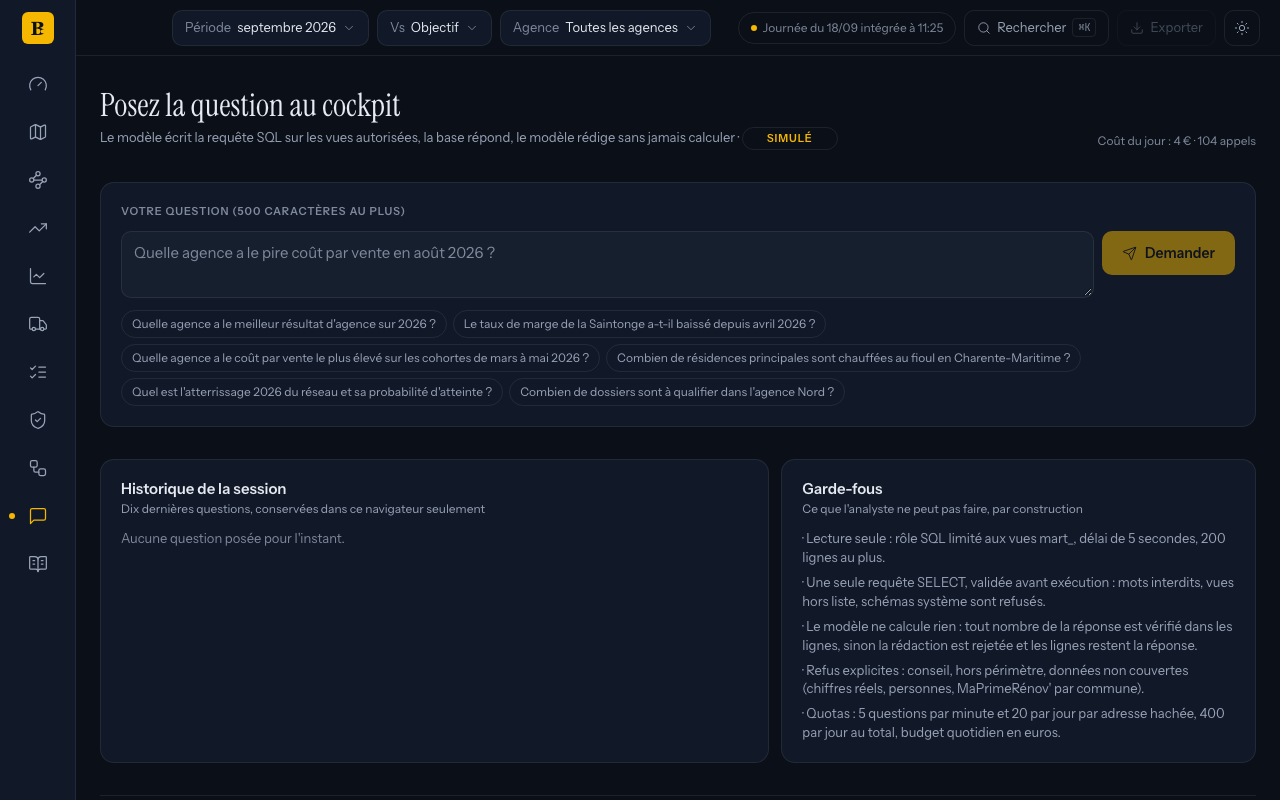
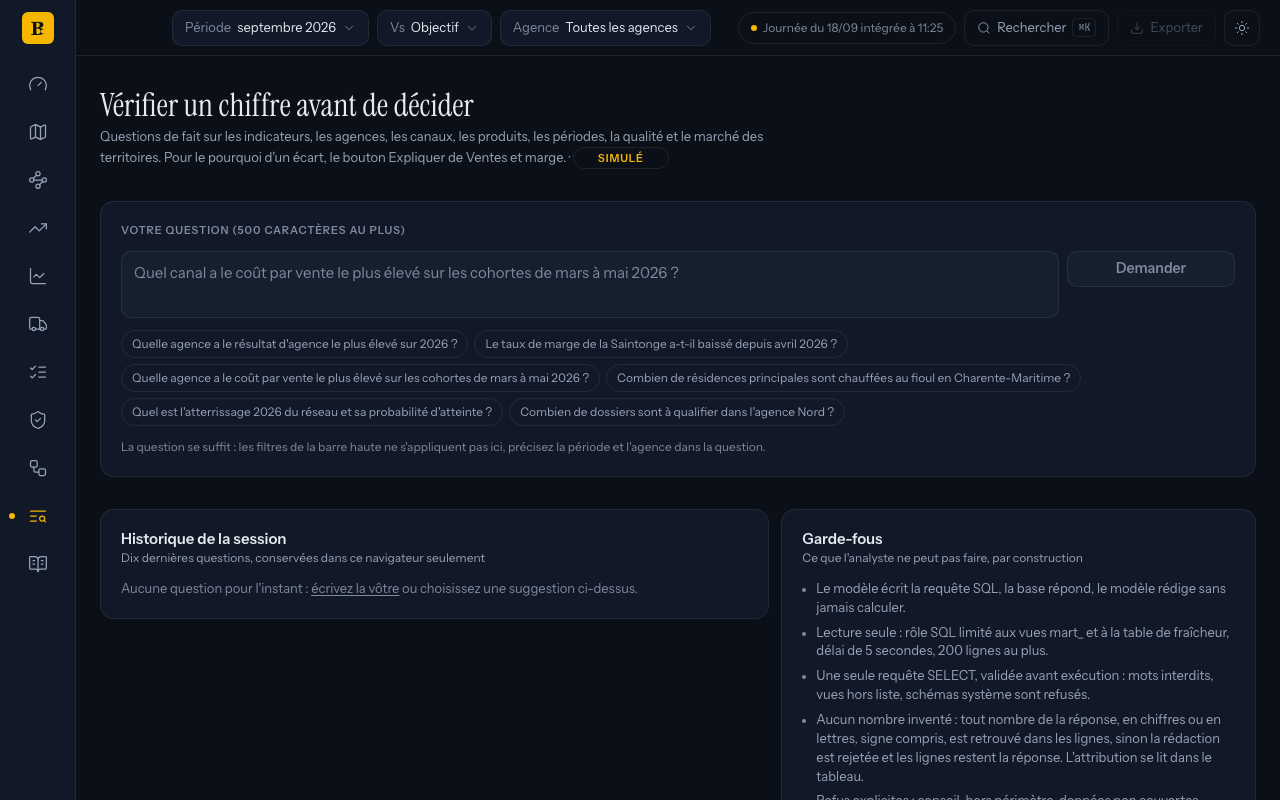
feat: codes traduits en libellés avant la rédaction et contrôle d'attribution phrase par phrase (relecture Analyste, points 1 et 2), migration 0033 versionnée, journal de la relecture à trois lentilles

diff --git a/supabase/functions/analyste/index.ts b/supabase/functions/analyste/index.ts
@@ -7,9 +7,9 @@
  * simulée ou réelle) sont calculées par le programme, la limite de 200 lignes est imposée par une sous-requête,
  * le quota a son propre statut, le contexte de l'écran n'est plus transmis (la question se suffit).
  */
-import { appelerModele, empreinte, ErreurRepli, extraireJson, journaliser, preflight, referentiels, reponseJson, rpcService, texteReferentiels, verifierQuota } from "../_partage/commun.ts";
+import { appelerModele, empreinte, ErreurRepli, extraireJson, journaliser, preflight, referentiels, reponseJson, rpcService, texteReferentiels, traduireLignes, verifierQuota } from "../_partage/commun.ts";
 import { lireEnLectureSeule } from "../_partage/base.ts";
-import { nombresAutorises, nombresNonTraces, signesIncoherents } from "../_partage/nombres.ts";
+import { attributionsIncoherentes, nombresAutorises, nombresNonTraces, signesIncoherents } from "../_partage/nombres.ts";
 import { LIMITE_LIGNES, sourcesCitees, validerSql } from "./garde-fous.ts";
 import { messageRedaction, promptCorrection, promptRedaction, promptSql } from "./prompts.ts";
 
@@ -161,7 +161,9 @@ Deno.serve(async (req: Request) => {
 
     let lecture;
     try {
-      lecture = await lireEnLectureSeule(sqlExecute);
+      const lue = await lireEnLectureSeule(sqlExecute);
+      // Codes traduits en libellés avant tout : le modèle recopie des noms, le navigateur affiche des noms.
+      lecture = { colonnes: lue.colonnes, lignes: traduireLignes(lue.lignes, refs) };
     } catch (erreur) {
       console.error("lecture", erreur instanceof Error ? erreur.message : erreur);
       await journaliser("analyste", emp, question, sql, "sql_erreur", cout, duree(), tokensEntree, tokensSortie);
@@ -192,13 +194,20 @@ Deno.serve(async (req: Request) => {
     // Les référentiels et la journée publiée sont versés en chiffres bruts : un numéro de département ou une année
     // cités dans la réponse sont des faits, pas des inventions ; un signe contraire aux lignes est un défaut.
     // Faits du référentiel transmis en prose au modèle : départements du périmètre, historique repris depuis janvier 2025.
-    const faitsReferentiels = { ...refs, departements_perimetre: ["16", "17", "79", "85", "24", "33", "47", "32", "40", "64", "59"], historique_depuis: "2025-01" };
+    // Les 96 codes de département n'en font pas partie (ils autoriseraient tous les nombres de 1 à 95) : seuls ceux du périmètre.
+    const { departements: _departements, ...refsSansDepartements } = refs;
+    const faitsReferentiels = { ...refsSansDepartements, departements_perimetre: ["16", "17", "79", "85", "24", "33", "47", "32", "40", "64", "59"], historique_depuis: "2025-01" };
     const autorises = nombresAutorises(lecture.lignes, question, lecture.lignes.length, faitsReferentiels);
+    const horsLignes = nombresAutorises([], question, lecture.lignes.length, faitsReferentiels);
     const nonTraces = [...nombresNonTraces(reponse, autorises), ...signesIncoherents(reponse, lecture.lignes)];
+    // Attribution : une phrase qui nomme une ligne ne cite que ses nombres (« Le Born (123 994 €) » avec la valeur du Marensin est rejeté).
+    const malAttribues = attributionsIncoherentes(reponse, lecture.lignes, horsLignes);
     let statut = "ok";
-    if (!reponse || nonTraces.length > 0) {
+    if (!reponse || nonTraces.length > 0 || malAttribues.length > 0) {
       statut = "ok_redaction_rejetee";
-      reponse = `Je ne peux pas répondre de façon fiable à cette question : la rédaction contenait ${nonTraces.length ? `un nombre absent des lignes ou au signe contraire (${nonTraces.slice(0, 3).join(", ")})` : "aucune phrase exploitable"}. Les lignes ci-dessous sont exactes et restent la réponse.`;
+      const motif = nonTraces.length ? `un nombre absent des lignes ou au signe contraire (${nonTraces.slice(0, 3).join(", ")})` : malAttribues.length ? `un nombre attribué à une autre ligne que la sienne (${malAttribues.slice(0, 3).join(", ")})` : "aucune phrase exploitable";
+      console.warn("analyste : rédaction rejetée", motif);
+      reponse = `Je ne peux pas répondre de façon fiable à cette question : la rédaction contenait ${motif}. Les lignes ci-dessous sont exactes et restent la réponse.`;
     }
     await journaliser("analyste", emp, question, sql, statut, cout, duree(), tokensEntree, tokensSortie);
     return reponseJson({ statut: "ok", sql, colonnes: lecture.colonnes, lignes: lecture.lignes, reponse, sources, nature, cout_eur: cout, duree_ms: duree(), modele: modeleUtilise, redaction_rejetee: statut !== "ok", budget_jour: quota.budget_jour, cout_jour: quota.cout_jour });

diff --git a/supabase/functions/_partage/commun.ts b/supabase/functions/_partage/commun.ts
@@ -216,10 +216,11 @@ export async function journaliser(fonction: "analyste" | "expliquer-ecart", emp:
   }
 }
 
-interface Referentiels {
+export interface Referentiels {
   agences: { code: string; nom_bassin: string; departement: string; ouverture: string }[];
   canaux: { code: string; libelle: string }[];
   produits: { code: string; libelle: string; famille: string }[];
+  departements: { code: string; nom: string }[];
   journee: string | null;
 }
 
@@ -228,15 +229,46 @@ let referentielsCache: { valeur: Referentiels; expire: number } | null = null;
 /** Référentiels (agences, canaux, produits) et journée publiée, transmis au modèle pour traduire les codes ; cache 10 minutes. */
 export async function referentiels(): Promise<Referentiels> {
   if (referentielsCache && referentielsCache.expire > Date.now()) return referentielsCache.valeur;
-  const [agences, canaux, produits, fraicheur] = await Promise.all([
+  const [agences, canaux, produits, departements, fraicheur] = await Promise.all([
     lireVue<Referentiels["agences"][number]>("dim_agence", "select=code,nom_bassin,departement,ouverture&order=code"),
     lireVue<Referentiels["canaux"][number]>("dim_canal", "select=code,libelle&order=code"),
     lireVue<Referentiels["produits"][number]>("dim_produit", "select=code,libelle,famille&order=code"),
+    lireVue<Referentiels["departements"][number]>("dim_departement", "select=code,nom&order=code"),
     lireVue<{ date_reference: string | null }>("mart_fraicheur", "select=date_reference&source=eq.journee_simulee"),
   ]);
-  const valeur = { agences, canaux, produits, journee: fraicheur[0]?.date_reference ?? null };
+  const valeur = { agences, canaux, produits, departements, journee: fraicheur[0]?.date_reference ?? null };
   referentielsCache = { valeur, expire: Date.now() + 10 * 60_000 };
   return valeur;
+}
+
+/**
+ * Codes traduits en libellés dans les lignes, colonne par colonne (agence, canal, produit, departement), avant la
+ * rédaction et l'affichage : le modèle recopie des noms, il ne traduit plus, et le contrôle d'attribution compare des
+ * libellés. Une liste de codes (« SAI, ANG ») est traduite terme à terme.
+ */
+export function traduireLignes(lignes: readonly Record<string, unknown>[], r: Referentiels): Record<string, unknown>[] {
+  const agences = new Map(r.agences.map((a) => [a.code, a.nom_bassin]));
+  const canaux = new Map(r.canaux.map((c) => [c.code, c.libelle]));
+  const produits = new Map(r.produits.map((p) => [p.code, p.libelle]));
+  const departements = new Map<string, string>([...r.departements.map((d): [string, string] => [d.code, d.nom]), ["SUR_PLACE", "Sur place"], ["A_DISTANCE", "À distance"]]);
+  const dictionnaire = (colonne: string): Map<string, string> | null => {
+    const c = colonne.toLowerCase();
+    if (c.includes("agence")) return agences;
+    if (c.includes("canal") || c.includes("canaux")) return canaux;
+    if (c.includes("produit")) return produits;
+    if (c.includes("departement")) return departements;
+    return null;
+  };
+  const traduire = (v: string, d: Map<string, string>): string => {
+    if (v === "RESEAU") return "Réseau";
+    if (v === "TOUS") return "Tous";
+    if (v.includes(", ")) return v.split(", ").map((x) => d.get(x) ?? x).join(", ");
+    return d.get(v) ?? v;
+  };
+  return lignes.map((l) => Object.fromEntries(Object.entries(l).map(([k, v]) => {
+    const d = dictionnaire(k);
+    return [k, d && typeof v === "string" ? traduire(v, d) : v];
+  })));
 }
 
 export function texteReferentiels(r: Referentiels): string {

diff --git a/src/ecrans/analyste/index.tsx b/src/ecrans/analyste/index.tsx
@@ -191,7 +191,7 @@ export function EcranAnalyste() {
           {r.statut === "ok" && (
             <>
               <Carte titre="La réponse" sousTitre={`« ${courant.question} »`}
-                actions={<><Badge variante={r.nature === "reel" ? "reel" : "simule"}>{libelleNature(r.nature)}</Badge><Pastille statut={r.redaction_rejetee ? "attention" : "succes"} texte={r.redaction_rejetee ? "rédaction rejetée, lignes exactes" : "aucun nombre hors des lignes"} /></>}>
+                actions={<><Badge variante={r.nature === "reel" ? "reel" : "simule"}>{libelleNature(r.nature)}</Badge><Pastille statut={r.redaction_rejetee ? "attention" : "succes"} texte={r.redaction_rejetee ? "rédaction rejetée, lignes exactes" : "chaque nombre retrouvé dans sa ligne"} /></>}>
                 <p className="max-w-[72ch] text-[15px] leading-relaxed text-texte">{r.reponse}</p>
                 {(r.sources ?? []).length > 0 && <p className="mt-[var(--esp-2)] max-w-[72ch] text-[12px] text-texte-3">Sources : {(r.sources ?? []).join(" · ")}</p>}
                 <p className="mt-[var(--esp-2)] text-[12px] text-texte-3">
@@ -280,7 +280,7 @@ export function EcranAnalyste() {
               "Le modèle écrit la requête SQL, la base répond, le modèle rédige sans jamais calculer.",
               "Lecture seule : rôle SQL limité aux vues mart_ et à la table de fraîcheur, délai de 5 secondes, 200 lignes au plus.",
               "Une seule requête SELECT, validée avant exécution : mots interdits, vues hors liste, schémas système sont refusés.",
-              "Aucun nombre inventé : tout nombre de la réponse, en chiffres ou en lettres, signe compris, est retrouvé dans les lignes, sinon la rédaction est rejetée et les lignes restent la réponse. L'attribution se lit dans le tableau.",
+              "Aucun nombre inventé ni déplacé : tout nombre de la réponse, en chiffres ou en lettres, signe compris, est retrouvé dans les lignes, et dans la ligne que la phrase nomme ; sinon la rédaction est rejetée et les lignes restent la réponse.",
               "Refus explicites : conseil, hors périmètre, données non couvertes (chiffres réels, personnes, MaPrimeRénov' par commune), écriture.",
               "Quotas : 5 questions par minute et 20 par jour par adresse et navigateur hachés, 400 par jour au total, budget quotidien en euros.",
             ].map((texte) => (

diff --git a/tests/nombres.test.ts b/tests/nombres.test.ts
@@ -1,5 +1,5 @@
 import { describe, expect, it } from "vitest";
-import { extraireNombres, nombresAutorises, nombresNonTraces, normaliserNombre, representations, signesIncoherents } from "../supabase/functions/_partage/nombres.ts";
+import { attributionsIncoherentes, extraireNombres, nombresAutorises, nombresNonTraces, normaliserNombre, representations, signesIncoherents } from "../supabase/functions/_partage/nombres.ts";
 
 describe("normaliserNombre et extraireNombres", () => {
   it("ramène les écritures françaises et machine à une même clé", () => {
@@ -88,5 +88,27 @@ describe("nombres en lettres, signes et référentiels", () => {
     expect(autorises.has("18")).toBe(true);
     expect(autorises.has("60")).toBe(false);
     expect(autorises.has("0.06")).toBe(false);
+  });
+});
+
+describe("attributionsIncoherentes", () => {
+  const lignes = [
+    { agence: "Saintonge", resultat_total: 299537 },
+    { agence: "Marensin", resultat_total: 123994 },
+    { agence: "Born", resultat_total: -18736 },
+    { agence: "Bassin d'Arcachon", resultat_total: -77647 },
+  ];
+  const horsLignes = nombresAutorises([], "résultat 2026", lignes.length, { journee: "2026-09-18" });
+  it("rejette un nombre cité avec une ligne qui ne le porte pas", () => {
+    expect(attributionsIncoherentes("Le Born (123 994 €) suit avec un résultat positif.", lignes, horsLignes)).toEqual(["123994"]);
+  });
+  it("accepte un nombre cité avec sa ligne, ses reformulations, et les nombres hors lignes", () => {
+    expect(attributionsIncoherentes("À date (18 septembre 2026), la Saintonge affiche 299 537 €, soit 299,5 k€ ; le Marensin suit à 123 994 €.", lignes, horsLignes)).toEqual([]);
+    expect(attributionsIncoherentes("Nord est derrière Saintonge avec 220 223 €.", [{ agence: "Nord", resultat_total: 220223 }, ...lignes], horsLignes)).toEqual([]);
+    expect(attributionsIncoherentes("Le Bassin d'Arcachon est le plus bas avec -77 647 €, sur 4 agences.", lignes, horsLignes)).toEqual([]);
+  });
+  it("ne juge pas une phrase qui ne nomme aucune ligne, et tolère un trait d'union dans le libellé", () => {
+    expect(attributionsIncoherentes("Le résultat le plus élevé est de 299 537 €.", lignes, horsLignes)).toEqual([]);
+    expect(attributionsIncoherentes("Le Bassin-d'Arcachon affiche -77 647 €.", lignes, horsLignes)).toEqual([]);
   });
 });

diff --git a/supabase/functions/analyste/prompts.ts b/supabase/functions/analyste/prompts.ts
@@ -51,7 +51,8 @@ export function promptRedaction(referentiels: string, journee: string | null): s
     `- Journée publiée (dernier jour de données) : ${journee ?? "inconnue"}. Aucune période citée ne la dépasse : la borne d'un filtre SQL (« mois < 2027-01-01 ») n'est pas la période des données. Pour une année ou un mois en cours, écris « à date » ou « jusqu'au ${journee ?? "jour publié"} », dis que le mois en cours est partiel, et n'écris jamais qu'une agence « termine » une année qui n'est pas finie. Les dates s'écrivent en français (18 septembre 2026), jamais en AAAA-MM-JJ.`,
     "- Si les lignes portent cohorte_mature à faux, ou une cohorte de moins de 90 jours, dis que la conversion n'est pas terminée et que les taux sont provisoires.",
     "- Trois à six phrases en français, chiffres formatés à la française (virgule décimale, espace entre les milliers, espace avant %), sans superlatif ni adverbe d'appréciation (« nettement », « largement »), sans tiret long, sans recommandation stratégique.",
-    "- Rappelle la période et le périmètre. Traduis les codes en libellés (agences par bassin, canaux, produits) avec les référentiels ci-dessous, sans répéter le code entre parenthèses ; jamais de nom de personne ; ne mentionne pas les lignes de total exclues par la requête (RESEAU, TOUS).",
+    "- Rappelle la période et le périmètre. Les codes des lignes sont déjà traduits en libellés (bassins, canaux, produits, départements) : recopie ces libellés tels quels, sans code entre parenthèses ; jamais de nom de personne ; ne mentionne pas les lignes de total exclues par la requête (Réseau, Tous).",
+    "- Un nombre ne se cite qu'avec la ligne qui le porte : n'attribue jamais à une agence, un canal, un produit ou un département une valeur lue sur une autre ligne. Relis chaque phrase en la comparant à sa ligne avant de répondre.",
     "- Ne qualifie pas l'ancienneté, l'ouverture, la taille ou la situation d'une agence si aucune ligne ne la donne.",
     "- Si les lignes sont vides, dis simplement qu'aucune donnée ne correspond.",
     "Réponds uniquement par un objet JSON : {\"reponse\": \"...\"}. Les sources sont ajoutées par le programme, ne les écris pas.",

diff --git a/supabase/functions/_partage/nombres.ts b/supabase/functions/_partage/nombres.ts
@@ -147,3 +147,40 @@ export function signesIncoherents(texte: string, donnees: unknown): string[] {
   }
   return [...new Set(incoherents)];
 }
+
+function normaliserTexte(t: string): string {
+  return t.normalize("NFD").replace(/[\u0300-\u036f]/g, "").replace(/[-\u2011]/g, " ").toLowerCase();
+}
+
+function echapper(t: string): string {
+  return t.replace(/[.*+?^${}()|[\]\\]/g, "\\$&");
+}
+
+/** Libellés d'une ligne : valeurs texte d'au moins deux caractères qui ne sont ni des nombres ni des dates (bassin, canal, produit, département). */
+function libellesDeLigne(ligne: Record<string, unknown>): string[] {
+  return Object.values(ligne).filter((v): v is string => typeof v === "string" && v.trim().length >= 2 && !/^-?\d+([.,]\d+)?$/.test(v.trim()) && !/^\d{4}-\d{2}(-\d{2})?$/.test(v.trim()));
+}
+
+/**
+ * Attribution phrase par phrase : quand une phrase nomme une ou plusieurs lignes (par leur libellé), tout nombre de la
+ * phrase doit appartenir à l'une de ces lignes, ou aux nombres autorisés hors lignes (question, dénombrements,
+ * référentiels). « Le Born (123 994 €) » est rejeté si 123 994 est la valeur de la ligne Marensin. Une phrase qui ne
+ * nomme aucune ligne n'est pas jugée ici (le contrôle global des nombres s'applique déjà).
+ */
+export function attributionsIncoherentes(texte: string, lignes: readonly Record<string, unknown>[], autorisesHorsLignes: Set<string>): string[] {
+  const indexees = lignes.map((l) => {
+    const nombres = new Set<string>();
+    ajouterValeur(l, nombres);
+    return { libelles: libellesDeLigne(l).map(normaliserTexte), nombres };
+  });
+  const incoherents: string[] = [];
+  for (const phrase of texte.split(/(?<=[.!?;])\s+/)) {
+    const p = normaliserTexte(phrase);
+    const citees = indexees.filter((l) => l.libelles.some((lib) => new RegExp(`(?<![\\p{L}])${echapper(lib)}(?![\\p{L}])`, "u").test(p)));
+    if (citees.length === 0) continue;
+    const permis = new Set<string>(autorisesHorsLignes);
+    for (const l of citees) for (const n of l.nombres) permis.add(n);
+    for (const n of extraireNombres(phrase)) if (!permis.has(n)) incoherents.push(n);
+  }
+  return [...new Set(incoherents)];
+}

diff --git a/supabase/functions/expliquer-ecart/index.ts b/supabase/functions/expliquer-ecart/index.ts
@@ -98,7 +98,8 @@ Deno.serve(async (req: Request) => {
     };
     const texteComplet = [explication.constat, ...explication.causes.map((c) => `${c.texte} ${c.fait}`), explication.action].join("\n");
     // Les référentiels (départements, années d'ouverture) et la journée publiée font partie des faits transmis au modèle.
-    const nonTraces = [...nombresNonTraces(texteComplet, nombresAutorises(faits, `${mois}`, null, refs)), ...signesIncoherents(texteComplet, faits)];
+    const { departements: _departements, ...refsSansDepartements } = refs;
+    const nonTraces = [...nombresNonTraces(texteComplet, nombresAutorises(faits, `${mois}`, null, refsSansDepartements)), ...signesIncoherents(texteComplet, faits)];
     await journaliser("expliquer-ecart", emp, null, null, nonTraces.length || !explication.constat ? "repli_nombres" : "ok", r.coutEur, duree(), r.tokensEntree, r.tokensSortie);
     if (!explication.constat || nonTraces.length > 0) {
       console.warn("explication rejetée", nonTraces.join(", "));

diff --git a/docs/JOURNAL.md b/docs/JOURNAL.md
@@ -321,4 +321,17 @@ Lot 5 (18 septembre, en cours) :
 - Advisors Supabase (sécurité) après la migration 0031 : un seul point nouveau, `buta.round` sans search_path figé ; migration 0032 (`set search_path = pg_catalog`). Le reste est connu et voulu (vues `mart_` en security definer, RLS sans politique sur les tables internes, vues matérialisées exposées en lecture).
 - Lighthouse (Brave, préréglage desktop) sur `/analyste` en production après le déploiement de 2 h 52 : performance 100, accessibilité 100, bonnes pratiques 100, SEO 100 (LCP 0,6 s, décalage 0). Suite Playwright complète en production : 42/42.
 - n8n (19 septembre, 3 h 10) : nœud Code « Rédiger par règles » de WF3 remplacé par `n8n/wf3-code-regles.js` regénéré (espace insécable U+00A0, comme le site) ; credentials existants rattachés aux nœuds (« Gmail account » sur WF0, WF2, WF3, WF5 ; « Mistral Cloud account » sur WF3). Il ne manque que « Supabase Buta (service role) » (type Supabase API, hôte du projet renovscope, clé service_role), à créer par Frédéric ; le credential « Supabase Courant (service role) » pointe sur un autre projet (schéma `ingest`, absent de renovscope). Marche à suivre dans AUTOMATISATIONS.md §4.
-- Budget du jour : les trois passes, les sondes et les captures ont consommé environ 4 € sur les 5 € du 19 septembre (compteur en heure UTC) ; ne plus rejouer l'évaluation avant mardi, les tests e2e coûtent 0,012 € par passage.
+- Budget du jour : les trois passes, les sondes et les captures ont consommé environ 4 € sur les 5 € du 19 septembre (compteur en heure de Paris, la base compte ainsi ; l'écran le lisait en UTC, corrigé) ; les tests e2e coûtent 0,012 € par passage.
+- Relecture par workflow de réfutation à trois lentilles de l'écran Analyste (19 septembre, 9 h 30 à 12 h, captures de production de 2 h 47, agents critiques indépendants, sans juge de synthèse) : lentille faits 23 réfutations (1 bloquante), lentille forme et typographie 37 (1 bloquante), lentille recruteur simulé 20 (1 bloquante) plus trois questions d'entretien. Corrections retenues et déployées (fonctions v12 et v10, migration 0033, commit de midi) :
+  1. Période fausse (bloquant, deux lentilles) : la réponse vitrine disait « janvier à décembre 2026 » un 18 septembre, et « quatre agences terminent en résultat négatif ». La rédaction ne recevait pas la journée publiée et la ligne des sources était écrite par le modèle. Désormais la journée publiée est transmise à la rédaction avec la règle « à date, jamais la borne d'un filtre », et les sources (vues lues, période des lignes bornée à la journée publiée, nature simulée ou marché réel) sont calculées par le programme depuis la requête validée et les lignes ; le badge simulé ou marché réel de la carte vient des vues citées, plus de la prose.
+  2. Attribution (recruteur, faits, puis constatée sur la première capture d'après corrections : « Le Born (123 994 €) » avec la valeur du Marensin) : les codes d'agence, de canal, de produit et de département sont traduits en libellés par le programme avant la rédaction (le modèle recopie des noms, il ne traduit plus, et le tableau affiche des noms) et un contrôle d'attribution phrase par phrase rejette tout nombre cité avec une ligne qui ne le porte pas (`attributionsIncoherentes`, testé). Nombres en lettres (« quatre agences ») comptés comme des nombres, signe vérifié (« +17 779 € » pour une valeur négative est rejeté), formes en milliers et millions réservées aux valeurs qui les atteignent, arrondis à la dizaine, à la centaine et au millier acceptés, référentiels versés en chiffres bruts (les 96 codes de département exclus, ils auraient autorisé tous les nombres de 1 à 95), dénombrements de 1 au nombre de lignes acceptés.
+  3. « Agence Nord ouverte en 2026 » (recruteur, faits) : le référentiel transmis au modèle dit « agence simulée intégrée au réseau en juin 2026, historique repris depuis janvier 2025 : mêmes mois de données que les autres », et la rédaction ne qualifie plus l'ancienneté d'une agence sans ligne qui la donne.
+  4. Limite de 200 lignes non garantie (faits) : toute requête validée est enveloppée dans `select * from (…) limit 200`. Colonnes converties en nombre seulement si leur type PostgreSQL est numérique (un code Insee ou un département restent du texte).
+  5. Quota et budget affichés comme un refus (recruteur, faits) : statut `quota` distinct, carte « Analyste en pause ». Refus en une phrase avec un renvoi utile (Territoires pour un conseil d'implantation, Méthode pour une donnée non couverte) et son coût ; la phrase du modèle n'est plus concaténée.
+  6. Contexte de la barre haute transmis sans le dire (forme, recruteur) : plus transmis ; l'écran dit « la question se suffit ».
+  7. Critère du 100 % (recruteur, faits) : les termes attendus sont cherchés dans la prose seule, valeurs attendues ajoutées pour les 11 questions stables (1 918 997 €, Arcachon, 26,9, 299 537, 8,6, Salons, 399, 8,32, C03, 27 968, 29 187 878), libellés seuls pour les 7 mouvantes ; option `--questions` du script ; critère écrit dans IA.md §5 et dans les guides.
+  8. Journal des questions (recruteur, faits) : purge à 30 jours par pg_cron (migration 0033, fonction `purger_journal_analyste`), guide et pied d'écran alignés (« la question, sa requête et une empreinte hachée de l'adresse et du navigateur, jamais l'adresse »).
+  9. Écran (forme) : titre « Vérifier un chiffre avant de décider », sous-titre sur ce qu'on peut demander et où va le pourquoi d'un écart ; bouton primaire avec un token de texte contrasté sur les deux thèmes (3,6:1 vers 4,7:1 en clair) et un état désactivé dessiné, partagé avec Territoires ; squelettes des trois cartes pendant la requête, région `aria-live`, focus ramené sur la réponse ; requête SQL dans une carte repliée, mise en forme une clause par ligne (copie inchangée), ligatures de JetBrains Mono désactivées (« <> » et « >= » se rendaient en symboles) ; tableau sans largeur minimale sous quatre colonnes (la colonne numérique sortait de l'écran à 375 px), enveloppe comme les autres écrans, en-têtes en alias SQL mono, codes traduits ; historique horodaté avec chevron, état vide avec le geste, cartes à hauteur naturelle ; garde-fous en liste avec marqueur et budget du jour en dernière ligne (le compteur en tête d'écran disparaît) ; durée en secondes ; paragraphe à 72 caractères ; espaces insécables dans la prose du modèle (milliers, %, €) ; badge SIMULÉ non orphelin sur téléphone ; icône de route « recherche dans le texte » à la place de la bulle ; commande « Poser une question à l'analyste » dans la palette ; curseur main sur tout bouton (Tailwind 4 ne le pose plus) ; suggestions et placeholder sans superlatif.
+  10. Documentation : ECRANS.md §10 (ordre réel des cartes), IA.md (règle fondatrice, §2 305 colonnes, §4, §5 critère et chronologie des quatre passes de la nuit : 15/24 à 0 h 09, 21/24 à 0 h 23, 23/24 à 2 h 26, 24/24 à 2 h 40), GUIDE.md §3.10 et trois réponses de la section 8 (ce qui part chez le fournisseur, coût à l'échelle et repli, attribution), GUIDE_ILLUSTRE.md §5.10 et question fréquente, 27 968 et 289 718 € corrigés, captures refaites.
+- Réfutations non retenues avant mardi (notées pour après l'entretien) : fiche « i » depuis la ligne des sources ; budget affiché avant la première réponse ; nombres de la question toujours autorisés dans la réponse (une règle de prompt demande de citer la valeur des lignes, le garde-fou technique reste à écrire) ; numéro de semaine ISO accepté par le contrôle ; grain période dans mart_delais (le modèle prend une médiane de médianes mensuelles et le dit) ; question « pourquoi » dans le jeu d'évaluation ; négatifs colorés et unités dans le tableau des lignes ; quatre hauteurs de boutons ; espaces insécables de la ponctuation française sur tout le site ; apostrophes typographiques ; animation signature de l'écran ; question affichée dans le champ et en sous-titre après la réponse ; suggestion 3 reformulée vers le canal (H2 se lit au grain canal, la doc le dit).
+- Passes de contrôle après la relecture (`npm run evaluer:analyste -- --questions …`, critère renforcé) : 19/24 à 11 h 40 avec la journée publiée transmise mais avant la traduction des codes (cinq rédactions rejetées : « 2025 » et « 24 » cités depuis la prose des référentiels, un dénombrement « deux contrôles », une réponse hors JSON), 5/5 à 11 h 50 sur ces cinq questions après correction, puis 10/10 à 12 h 10 sur les dix questions à libellés multiples (2, 3, 5, 7, 13, 14, 16, 17, 20, 24) avec les codes traduits et le contrôle d'attribution : les réponses écrivent « à date (jusqu'au 18 septembre 2026, période partielle) », nomment les bassins, et Marensin porte bien 123 994 €. Coût de la relecture et de ses passes : environ 0,60 € (budget du 19 septembre à 4,4 € sur 5 à midi). Le jeu complet est à rejouer avant le gel de lundi, budget remis à zéro à minuit.

diff --git a/docs/GUIDE_ILLUSTRE.md b/docs/GUIDE_ILLUSTRE.md
@@ -519,7 +519,7 @@ La question : qu'est-ce qui se fait sans personne, quand, et est-ce que ça a ma
 
 ![Analyste, page entière](captures/guide/analyste.png)
 
-La question : que répond le cockpit quand on lui pose une question de fait en français, et peut-on lui faire confiance. L'écran est entré dans la navigation le 19 septembre 2026, après un jeu d'évaluation de vingt-quatre questions réussi à 100 % (le seuil de mise en ligne était de 90 %). Ce que le jeu vérifie : le statut attendu (réponse ou refus), l'absence de tout nombre hors des lignes, et la présence dans la phrase du modèle de la valeur attendue pour les onze questions dont la valeur ne bouge pas d'un jour à l'autre. Ce qu'il ne vérifie pas : qu'un chiffre exact est attribué à la bonne agence ; c'est pour cela que les lignes et la requête sont toujours affichées.
+La question : que répond le cockpit quand on lui pose une question de fait en français, et peut-on lui faire confiance. L'écran est entré dans la navigation le 19 septembre 2026, après un jeu d'évaluation de vingt-quatre questions réussi à 100 % (le seuil de mise en ligne était de 90 %). Ce que le jeu vérifie : le statut attendu (réponse ou refus), l'absence de tout nombre hors des lignes, et la présence dans la phrase du modèle de la valeur attendue pour les onze questions dont la valeur ne bouge pas d'un jour à l'autre. Un chiffre exact prêté à la mauvaise agence dans une phrase qui la nomme est rejeté aussi ; les lignes et la requête restent affichées parce qu'elles sont la matière de la réponse.
 
 ![L'écran avant toute question](captures/guide/analyste-00-avant-question.png)
 
@@ -531,12 +531,12 @@ La question : que répond le cockpit quand on lui pose une question de fait en f
 
 **La réponse.**
 - Ce que ça montre : trois à six phrases en français, la période et le périmètre rappelés, les codes traduits en bassins, puis les sources, calculées par le programme et non par le modèle (vues lues par la requête, période des lignes bornée à la journée publiée, nature des données), le modèle, la durée en secondes et le coût de la question. Le badge « simulé » ou « marché réel » vient lui aussi des vues citées par la requête validée.
-- Comment le lire : la pastille verte « aucun nombre hors des lignes » dit que tous les nombres de la prose, en chiffres ou en lettres et avec leur signe, ont été retrouvés dans les lignes renvoyées par la base. Si un nombre ne s'y trouve pas, la rédaction est rejetée, la pastille passe en orange et une phrase explique que les lignes ci-dessous restent la réponse. Ce que la pastille ne dit pas : que chaque chiffre est attribué à la bonne ligne ; en cas de doute, le tableau fait foi.
+- Comment le lire : la pastille verte « chaque nombre retrouvé dans sa ligne » dit que tous les nombres de la prose, en chiffres ou en lettres et avec leur signe, ont été retrouvés dans les lignes renvoyées par la base, et, quand la phrase nomme une agence, un canal ou un produit, dans la ligne de celui-ci. Si un nombre ne s'y trouve pas, la rédaction est rejetée, la pastille passe en orange et une phrase explique que les lignes ci-dessous restent la réponse. En cas de doute, le tableau fait foi.
 
 ![Les chiffres](captures/guide/analyste-02-les-chiffres.png)
 
 **Les chiffres.**
-- Ce que ça montre : les lignes exactes renvoyées par la base, avec les noms de colonnes tels que la requête les a écrits (en minuscules, police à chasse fixe : ce sont des alias SQL, pas des libellés), les codes d'agence, de canal et de produit traduits en libellés, triables et exportables comme tout tableau du site.
+- Ce que ça montre : les lignes exactes renvoyées par la base, avec les noms de colonnes tels que la requête les a écrits (en minuscules, police à chasse fixe : ce sont des alias SQL, pas des libellés), les codes d'agence, de canal, de produit et de département traduits en libellés par le programme (le modèle reçoit ces libellés et les recopie), triables et exportables comme tout tableau du site.
 - Comment le lire : c'est la matière première de la réponse ; en cas de doute sur une phrase, la ligne fait foi.
 
 ![La requête SQL exécutée](captures/guide/analyste-05-la-requete-sql-executee.png)
@@ -663,7 +663,7 @@ Tout se lit à 375 px sans zoom : les compteurs s'empilent, les tableaux gardent
 
 **Que fait le modèle de langage ?** Il rédige à partir de faits calculés en SQL et ne calcule jamais ; un contrôle refuse toute phrase contenant un nombre absent des faits. Sans clé configurée, tout est rédigé par règles et l'écran le dit.
 
-**L'analyste peut-il se tromper ?** Il peut mal choisir une vue ou un filtre, ou prêter le chiffre d'une agence à une autre, comme un analyste humain pressé : c'est pourquoi la requête et les lignes sont toujours affichées avec la réponse. Ce qu'il ne peut pas faire, c'est inventer un chiffre : tout nombre de sa phrase absent des lignes, en chiffres ou en lettres, ou au signe contraire, fait rejeter la phrase. Le jeu d'évaluation de vingt-quatre questions (dont six refus attendus) est rejoué avant chaque mise en ligne de l'écran.
+**L'analyste peut-il se tromper ?** Il peut mal choisir une vue ou un filtre, comme un analyste humain pressé : c'est pourquoi la requête et les lignes sont toujours affichées avec la réponse. Ce qu'il ne peut pas faire, c'est inventer ou déplacer un chiffre : tout nombre de sa phrase absent des lignes, en chiffres ou en lettres, au signe contraire, ou attribué à une autre ligne que celle que la phrase nomme, fait rejeter la phrase. Le jeu d'évaluation de vingt-quatre questions (dont six refus attendus) est rejoué avant chaque mise en ligne de l'écran.
 
 **Et Power BI ?** L'export de la page Méthode fournit les tables en CSV, un modèle en étoile documenté (grain, clés, mesures à recalculer depuis les sommes, jamais des moyennes de taux), quarante mesures DAX et un mode d'emploi.
 

diff --git a/docs/GUIDE.md b/docs/GUIDE.md
@@ -116,12 +116,12 @@ Ce qu'on dit : « le cockpit vit sans moi le matin ; si quelque chose casse, je 
 
 ### 3.10 Analyste · « Vérifier un chiffre avant de décider »
 La question : que répond le cockpit quand on lui pose une question de fait en français, et peut-on lui faire confiance.
-- Une question libre (500 caractères au plus) ou une des six suggestions (les histoires du jeu simulé et le marché réel). Le modèle écrit une requête SQL en lecture seule sur les vues autorisées, la base l'exécute sous un rôle limité (5 secondes, 200 lignes imposées par une sous-requête), le modèle rédige à partir des lignes sans jamais calculer, et tout nombre de la réponse, en chiffres, en lettres et signe compris, est retrouvé dans les lignes ; sinon la rédaction est rejetée et les lignes restent la réponse. La question se suffit : les filtres de la barre haute ne sont pas transmis.
+- Une question libre (500 caractères au plus) ou une des six suggestions (les histoires du jeu simulé et le marché réel). Le modèle écrit une requête SQL en lecture seule sur les vues autorisées, la base l'exécute sous un rôle limité (5 secondes, 200 lignes imposées par une sous-requête), le modèle rédige à partir des lignes (codes déjà traduits en libellés par le programme) sans jamais calculer, et tout nombre de la réponse, en chiffres, en lettres et signe compris, est retrouvé dans les lignes, et dans la ligne que la phrase nomme ; sinon la rédaction est rejetée et les lignes restent la réponse. La question se suffit : les filtres de la barre haute ne sont pas transmis.
 - La carte « La réponse » (prose, badge simulé ou marché réel et sources calculés par le programme depuis les vues citées, période bornée à la journée publiée, modèle, durée, coût), la carte « Les chiffres » (les lignes exactes, codes traduits, exportables), la requête SQL exécutée (carte repliée, copiable), l'historique de la session et les garde-fous avec le budget du jour.
 - Refus explicites avec leur motif : conseil (« faut-il ouvrir une agence à Niort ? », renvoi vers Territoires), hors périmètre (la météo), données non couvertes (chiffres réels, personnes, MaPrimeRénov' par commune, renvoi vers Méthode), écriture. Quotas par adresse et navigateur hachés, budget quotidien.
 - Mise en navigation le 19 septembre après le jeu d'évaluation de 24 questions (IA.md §5) : 24 réussites sur 24 à 2 h 40, seuil de 90 %. Le critère vérifie le statut attendu, l'absence de nombre hors des lignes et la présence de la valeur attendue dans la prose pour les 11 questions dont la valeur est stable (les autres suivent la journée publiée). La relecture à trois lentilles du 19 septembre a ensuite revu les prompts de rédaction (journée publiée transmise, aucun dénombrement, signe recopié) et la passe de contrôle est consignée dans le journal.
 
-Ce qu'on dit : « le modèle ne produit jamais un chiffre : il écrit la requête, la base répond, il commente ; si un nombre de sa phrase n'est pas dans les lignes, la phrase est rejetée. Ce que le contrôle ne garantit pas, c'est l'attribution : c'est pour cela que les lignes et la requête sont toujours affichées ».
+Ce qu'on dit : « le modèle ne produit jamais un chiffre : il écrit la requête, la base répond, il commente ; si un nombre de sa phrase n'est pas dans les lignes, ou pas dans la ligne que la phrase nomme, la phrase est rejetée et les lignes restent la réponse. La requête et les lignes sont toujours affichées : c'est la matière de la réponse, pas une annexe ».
 
 ### 3.11 Méthode et auteur
 Ce que c'est et ce que ce n'est pas, les sources réelles avec liens, licences et dates, le modèle de simulation et les sept histoires, le contexte public cité une seule fois (dix départements et huit agences publiés par l'entreprise, rachat de Lumélio annoncé en mai 2026), l'architecture, l'export Power BI (zip de vingt et une tables CSV et modèle en étoile documenté), l'auteur et les liens (LinkedIn, CV, Courant, CoPilote Atelier).
@@ -243,7 +243,7 @@ Les chiffres sont simulés ; les gestes sont ceux du poste.
 
 **Pourquoi ce nom ?** Un choix personnel qui reprend la racine de la marque ; il est isolé dans une constante et un sous-domaine, un renommage prend dix minutes, et à la première réserve exprimée le lien est retiré dans l'heure.
 
-**L'IA calcule quoi ?** Rien. Elle commente des faits calculés en SQL qui lui sont transmis ; un contrôle refuse toute réponse qui contiendrait un nombre absent des faits, en chiffres ou en lettres, signe compris. Elle est au palier B, avec quotas et budget affiché. Ce que le contrôle ne voit pas, c'est une mauvaise attribution (le chiffre d'une agence prêté à une autre) : la requête et les lignes sont toujours affichées pour cette raison.
+**L'IA calcule quoi ?** Rien. Elle commente des faits calculés en SQL qui lui sont transmis ; un contrôle refuse toute réponse qui contiendrait un nombre absent des faits, en chiffres ou en lettres, signe compris. Elle est au palier B, avec quotas et budget affiché. Une mauvaise attribution (le chiffre d'une agence prêté à une autre dans une phrase qui la nomme) est rejetée de la même façon depuis la relecture du 19 septembre ; la requête et les lignes restent affichées parce qu'elles sont la matière de la réponse.
 
 **Que part-il chez le fournisseur du modèle, et que reste-t-il ici ?** Le catalogue des vues (noms de colonnes et commentaires), la question, la requête SQL et au plus 60 lignes d'agrégats des vues `mart_` : jamais une ligne de dossier, jamais un nom de personne, jamais l'adresse du visiteur. Le journal côté serveur garde la question, la requête, le statut et une empreinte hachée de l'adresse et du navigateur, purgée après 30 jours ; l'historique visible n'existe que dans le navigateur.
 

diff --git a/docs/IA.md b/docs/IA.md
@@ -1,6 +1,6 @@
 # IA · analyste et explications
 
-Règle fondatrice : le modèle ne produit jamais un chiffre. Les faits sont calculés en SQL et lui sont donnés ; il rédige. Chaque réponse montre la requête, les lignes, la prose et les sources. Une réponse dont un nombre n'est pas traçable aux lignes est rejetée et remplacée par « je ne peux pas répondre de façon fiable à cette question ».
+Règle fondatrice : le modèle ne produit jamais un chiffre. Les faits sont calculés en SQL et lui sont donnés ; il rédige. Chaque réponse montre la requête, les lignes, la prose et les sources. Une réponse dont un nombre n'est pas traçable aux lignes (en chiffres ou en lettres, signe compris), ou dont un nombre est cité avec une ligne qui ne le porte pas, est rejetée et remplacée par « je ne peux pas répondre de façon fiable à cette question » ; les lignes restent la réponse. Les codes (agences, canaux, produits, départements) sont traduits en libellés par le programme avant la rédaction : le modèle recopie des noms, il ne traduit pas.
 
 ## 1. Périmètre
 Répond : questions sur les indicateurs, agences, canaux, produits, périodes, écarts, délais, qualité, marché des territoires (vues `mart_`). Refuse avec un motif clair : conseil personnel ou stratégique (« faut-il ouvrir à Nantes ? » : « le démonstrateur lit le marché, il ne recommande pas d'implantation »), questions hors périmètre (météo, actualité), questions sur des données non couvertes (MaPrimeRénov' par commune, données réelles de Butagaz), demandes d'écriture ou de suppression.
